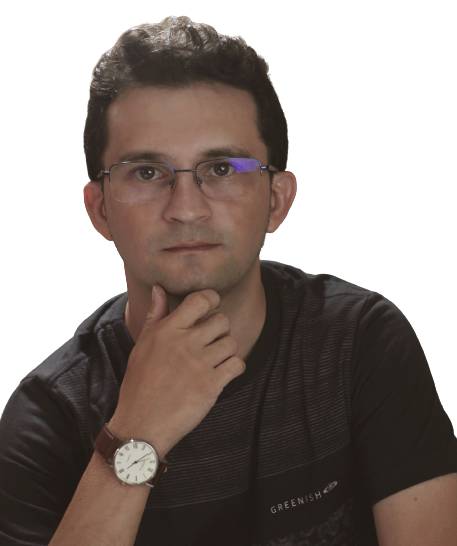
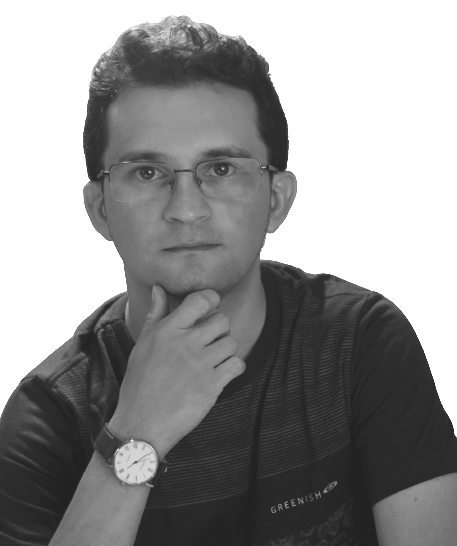
estilizando a foto

diff --git a/assets/css/style.css b/assets/css/style.css
@@ -75,12 +75,12 @@ header{
     background-color: rgba(0, 0, 0, 0.2);
 }
 .intro-info .img {
-   width: 300px;
-   height: 315px;
+   width: 280px;
+   height: 320px;
    margin: 0 20px;
-   padding: 1px;
    background-size: cover;
-   border: 3px solid #fff;
+   background-position: center;
+   border-bottom: 1px solid #ccc;
    border-radius: 50%;
 }
 
